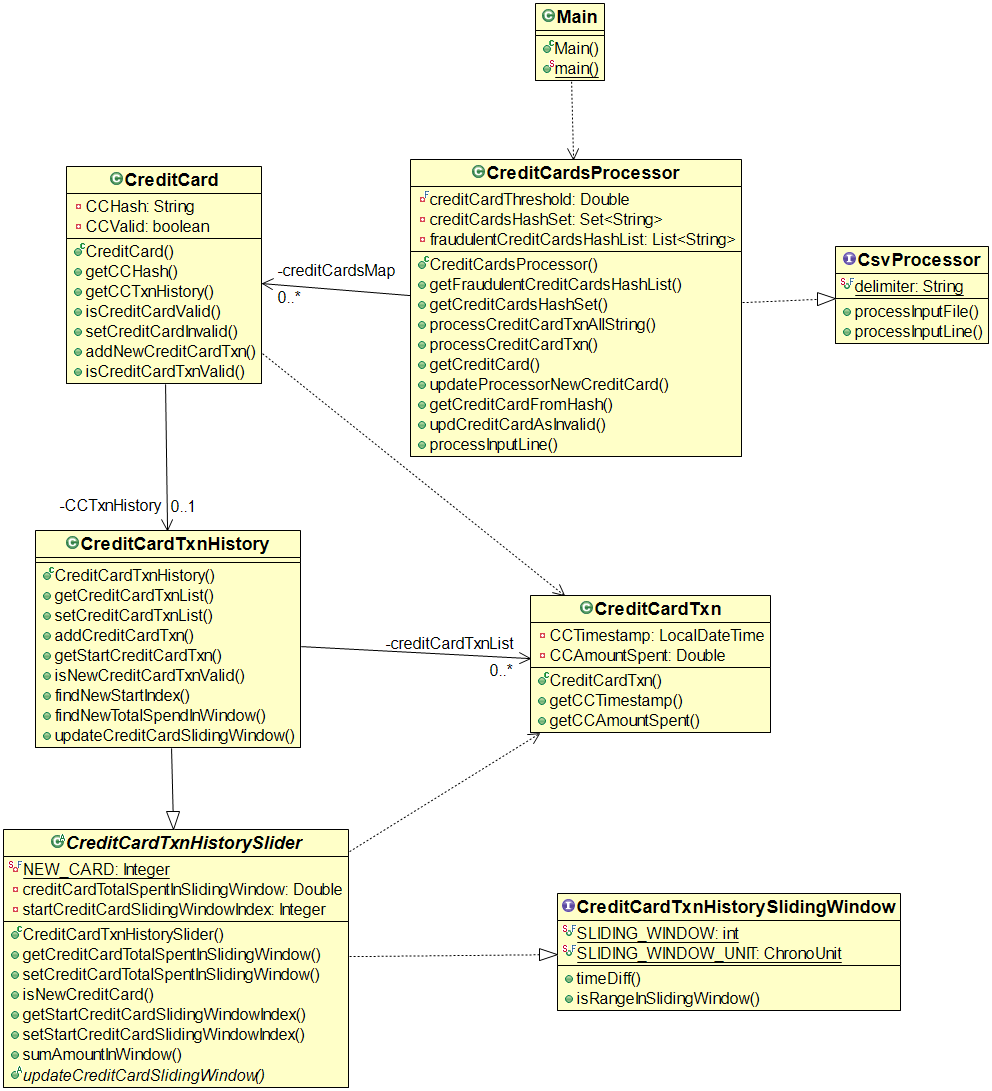
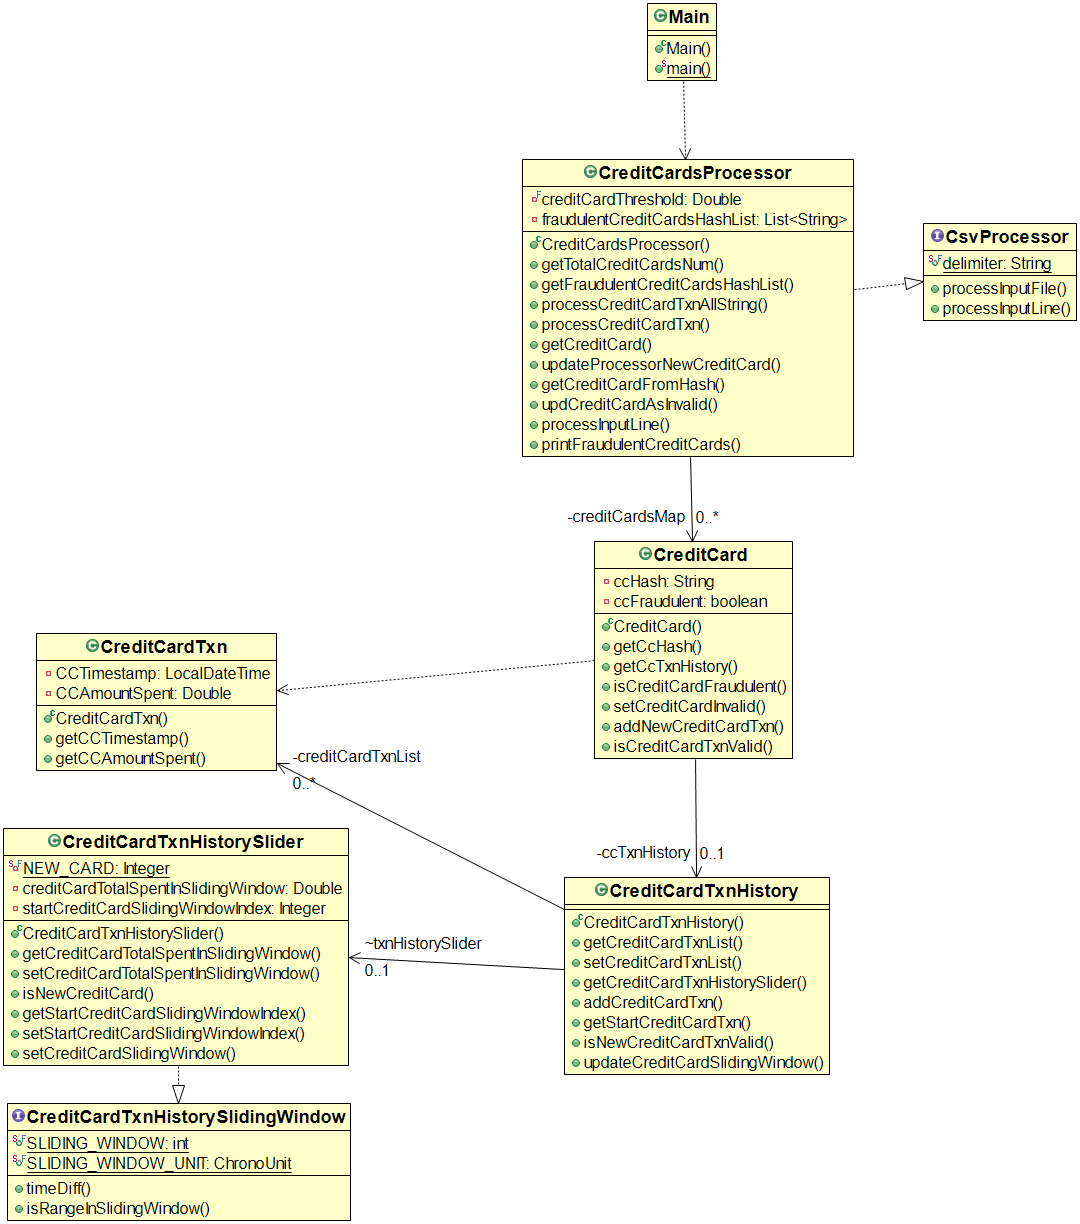
rename variables and update UML diagram

diff --git a/src/test/java/com/payments/CreditCardsProcessorTest.java b/src/test/java/com/payments/CreditCardsProcessorTest.java
@@ -21,7 +21,7 @@ public class CreditCardsProcessorTest {
     processor.processCreditCardTxn(hash, timestamp, amount);
 
     assertThat(processor.getFraudulentCreditCardsHashList()).isEmpty();
-    assertThat(processor.getCreditCardFromHash(hash).getCCHash()).isEqualTo(hash);
+    assertThat(processor.getCreditCardFromHash(hash).getCcHash()).isEqualTo(hash);
   }
 
   @Test
@@ -35,8 +35,8 @@ public class CreditCardsProcessorTest {
     CreditCardsProcessor processor = new CreditCardsProcessor(threshold);
     CreditCard cc = processor.getCreditCard(hash, timestamp, amount);
     assertThat(processor.getFraudulentCreditCardsHashList()).isEmpty();
-    assertThat(processor.getCreditCardFromHash(hash).getCCHash()).isEqualTo(hash);
-    assertThat(cc.getCCHash()).isEqualTo(hash);
+    assertThat(processor.getCreditCardFromHash(hash).getCcHash()).isEqualTo(hash);
+    assertThat(cc.getCcHash()).isEqualTo(hash);
   }
 
   @Test
@@ -53,8 +53,8 @@ public class CreditCardsProcessorTest {
 
     CreditCard cc = processor.getCreditCard(hash, timestamp, amount);
     assertThat(processor.getFraudulentCreditCardsHashList()).isEmpty();
-    assertThat(processor.getCreditCardFromHash(hash).getCCHash()).isEqualTo(hash);
-    assertThat(cc.getCCHash()).isEqualTo(hash);
+    assertThat(processor.getCreditCardFromHash(hash).getCcHash()).isEqualTo(hash);
+    assertThat(cc.getCcHash()).isEqualTo(hash);
     assertThat(cc).isEqualTo(creditCard);
   }
 
@@ -216,7 +216,7 @@ public class CreditCardsProcessorTest {
 
     System.out.println("Test1: Correct CSV format.");
     creditCardsProcessor.processCreditCardTxnAllString(line1,delimitator);
-    assertThat(creditCardsProcessor.getCreditCardFromHash("10d7ce2f43e35fa57d1bbf8b1e3").isCreditCardValid()).isEqualTo(true);
+    assertThat(creditCardsProcessor.getCreditCardFromHash("10d7ce2f43e35fa57d1bbf8b1e3").isCreditCardFraudulent()).isEqualTo(true);
 
     System.out.println("Test2: Incorrect CSV format. Expecting error message.");
     creditCardsProcessor.processCreditCardTxnAllString(line2,delimitator);

diff --git a/src/main/java/com/payments/creditcards/CreditCard.java b/src/main/java/com/payments/creditcards/CreditCard.java
@@ -5,36 +5,36 @@ import java.time.LocalDateTime;
 
 public class CreditCard implements Logger {
 
-  private String CCHash;
-  private CreditCardTxnHistory CCTxnHistory;
-  private boolean CCValid;
+  private String ccHash;
+  private CreditCardTxnHistory ccTxnHistory;
+  private boolean ccFraudulent;
 
   public CreditCard(String hash) {
-    CCHash = hash;
-    CCTxnHistory = new CreditCardTxnHistory();
-    CCValid = true;
+    ccHash = hash;
+    ccTxnHistory = new CreditCardTxnHistory();
+    ccFraudulent = true;
   }
 
-  public String getCCHash() {
-    return CCHash;
+  public String getCcHash() {
+    return ccHash;
   }
 
-  public CreditCardTxnHistory getCCTxnHistory() { return CCTxnHistory; }
+  public CreditCardTxnHistory getCcTxnHistory() { return ccTxnHistory; }
 
-  public boolean isCreditCardValid() { return CCValid; }
+  public boolean isCreditCardFraudulent() { return ccFraudulent; }
 
-  public void setCreditCardInvalid() { this.CCValid = false; }
+  public void setCreditCardInvalid() { this.ccFraudulent = false; }
 
   public void addNewCreditCardTxn(LocalDateTime timestamp, Double amount) {
-    CCTxnHistory.addCreditCardTxn(new CreditCardTxn(timestamp, amount));
+    ccTxnHistory.addCreditCardTxn(new CreditCardTxn(timestamp, amount));
   }
 
   public boolean isCreditCardTxnValid(LocalDateTime timestamp, Double amount,
       Double creditCardThreshold) {
     try {
 
-      return isCreditCardValid() &&
-          CCTxnHistory.isNewCreditCardTxnValid(timestamp, amount, creditCardThreshold);
+      return isCreditCardFraudulent() &&
+          ccTxnHistory.isNewCreditCardTxnValid(timestamp, amount, creditCardThreshold);
 
     } catch (Exception exception) {
       Logger.printErrorCommandLine("Error checking for credit card validity: " + exception.getMessage());

diff --git a/src/main/java/com/payments/creditcards/CreditCardsProcessor.java b/src/main/java/com/payments/creditcards/CreditCardsProcessor.java
@@ -105,7 +105,7 @@ public class CreditCardsProcessor implements CsvProcessor, Logger {
   }
 
   public void updateProcessorNewCreditCard(CreditCard creditCard) {
-    String hash = creditCard.getCCHash();
+    String hash = creditCard.getCcHash();
     creditCardsMap.put(hash, creditCard);
   }
 
@@ -115,10 +115,10 @@ public class CreditCardsProcessor implements CsvProcessor, Logger {
 
   public void updCreditCardAsInvalid(CreditCard creditCard) {
 
-    if (!creditCard.isCreditCardValid()) return;
+    if (!creditCard.isCreditCardFraudulent()) return;
     
     creditCard.setCreditCardInvalid();
-    fraudulentCreditCardsHashList.add(creditCard.getCCHash());
+    fraudulentCreditCardsHashList.add(creditCard.getCcHash());
   }
 
   public void processInputLine(String line) {

diff --git a/src/test/java/com/payments/CreditCardTest.java b/src/test/java/com/payments/CreditCardTest.java
@@ -58,13 +58,13 @@ public class CreditCardTest {
 
     cc.setCreditCardInvalid();
 
-    assertThat(cc.isCreditCardValid()).isEqualTo(false);
+    assertThat(cc.isCreditCardFraudulent()).isEqualTo(false);
   }
 
   @Test
   public void setCreditCardInvalid_testValid() {
     CreditCard cc = new CreditCard("10d7ce2f43e35fa57d1bbf8b1e2");
 
-    assertThat(cc.isCreditCardValid()).isEqualTo(true);
+    assertThat(cc.isCreditCardFraudulent()).isEqualTo(true);
   }
 }
